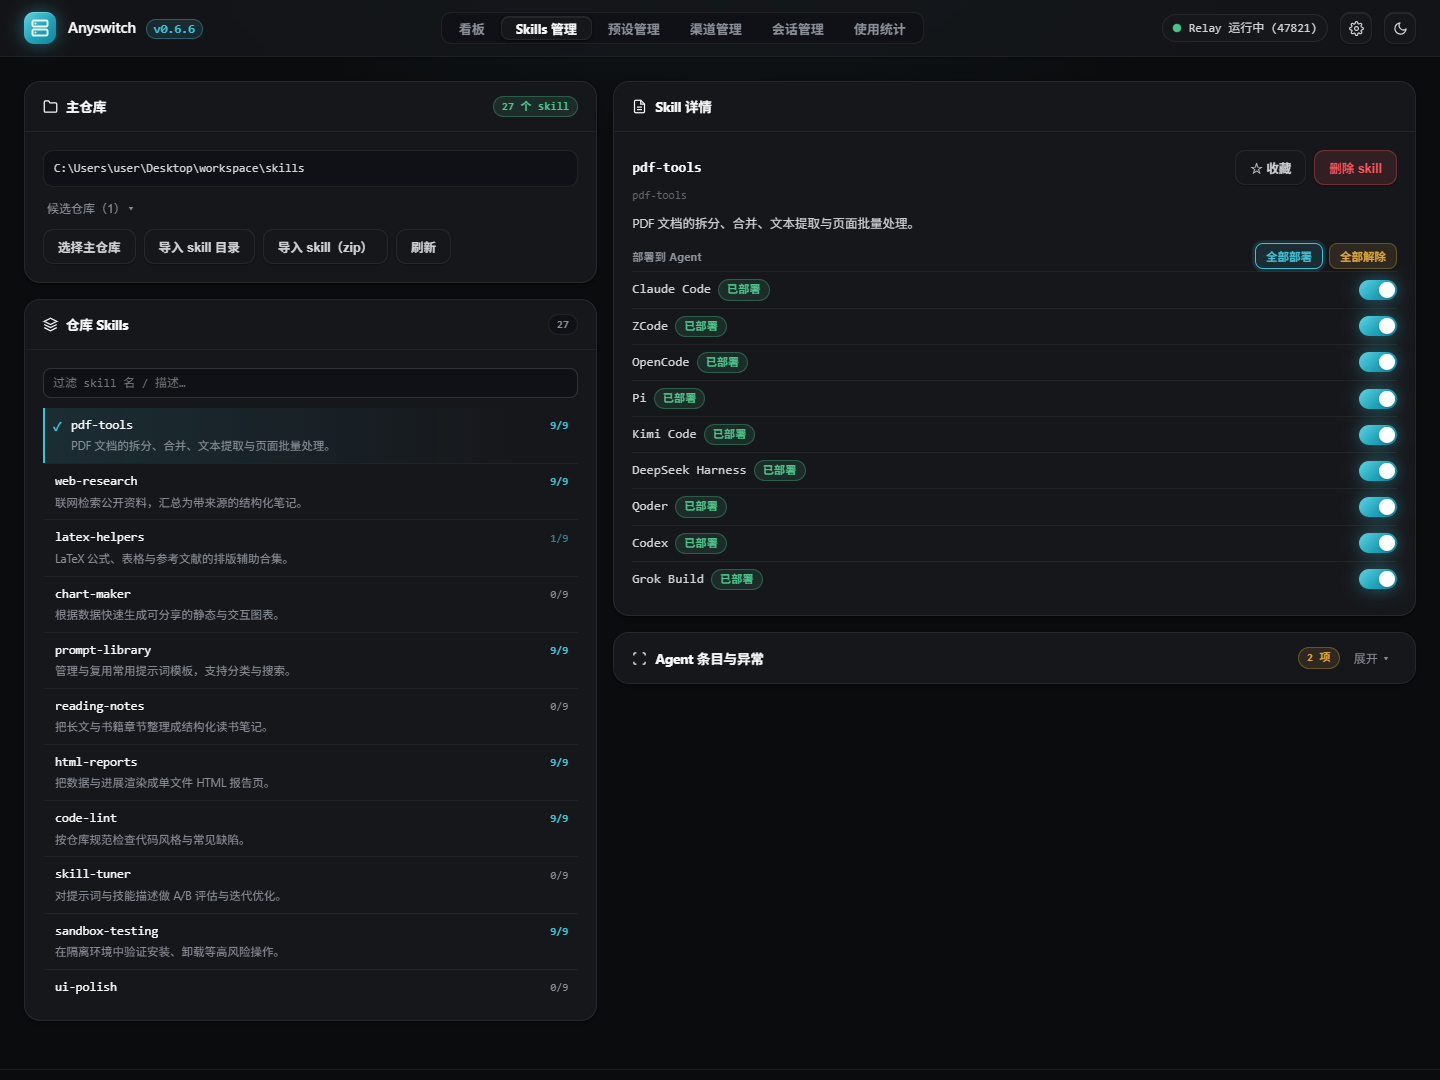
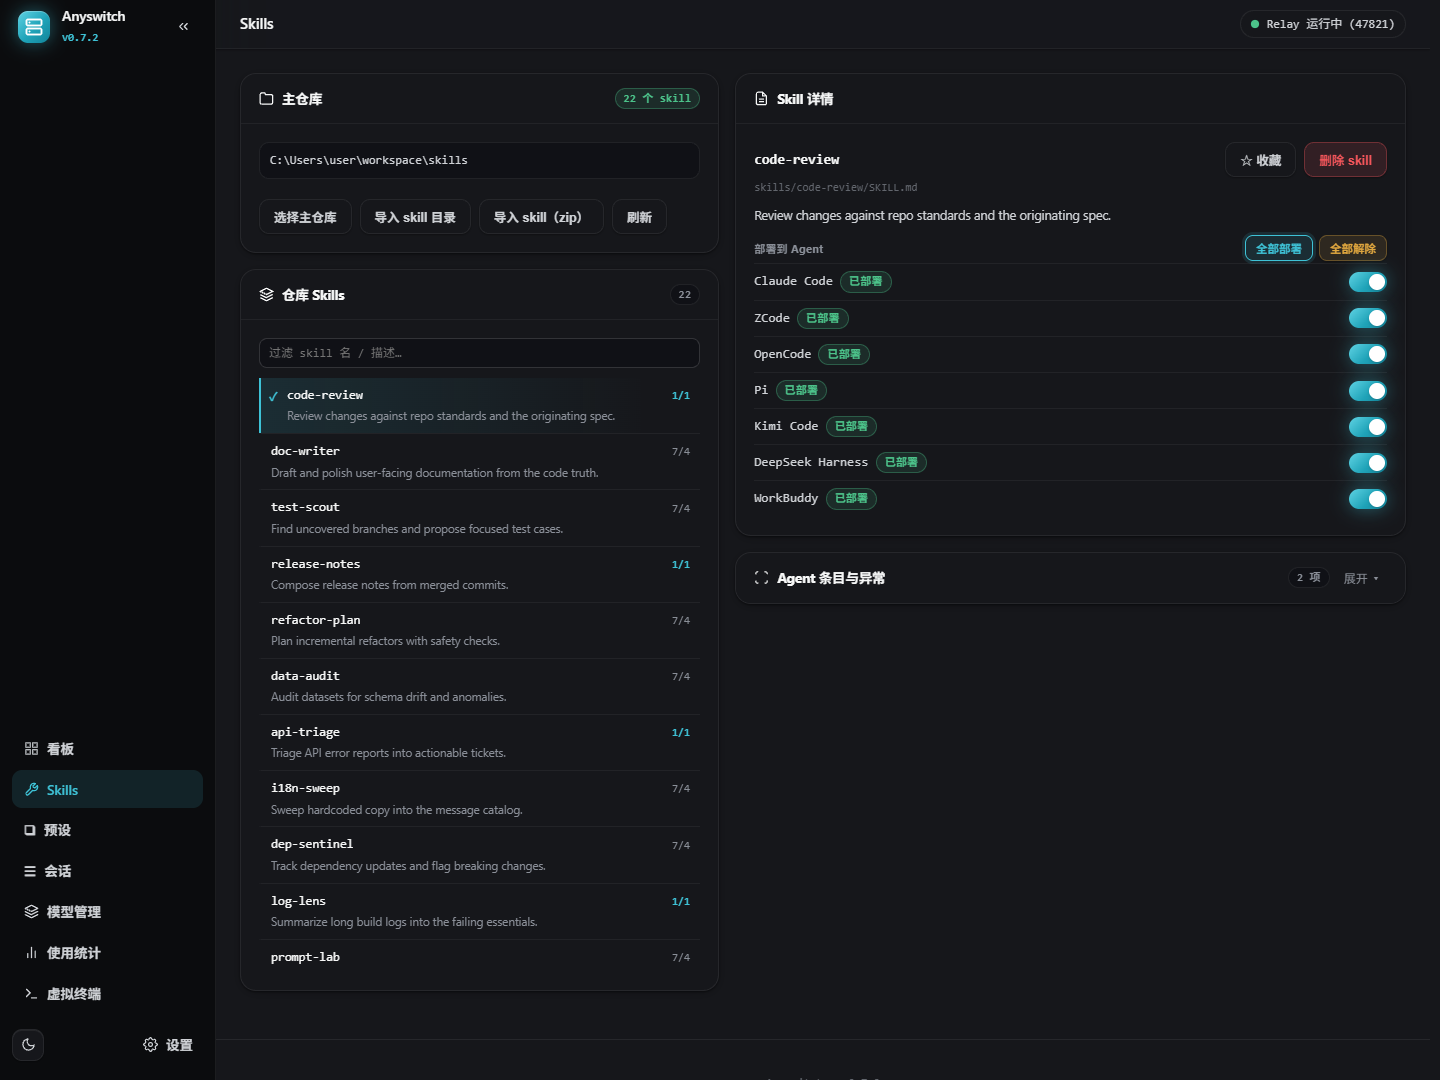
docs(readme): README 追上 0.7.2——截图按默认 v2 布局全量重拍，恢复/关页签/界面默认值旧口径修正，0.7.x 新特性织入（中英同步）
- 截图：原槽位 7 张按 v2 默认布局重拍（渠道管理更名 s2-store 模型管理），新增 s8-presets（预设技能节）与 s9-sessions（读数节），删除从未被引用的 s8-terminal-settings
- 旧口径修正：恢复开关＝死于服务重启的会话回页自动原地复活、正常退出如实标记；关页签＝页签只是入口，同对话还有活页签零确认只撤入口、最后一个入口在跑才确认；边界条反转为左侧导航新版即默认布局（旧版可在设置→通用→显示切回）
- 新特性织入：看板三档排布、ZCode 会话粒度实例行、预设「标题+正文」成段注入、SKILL.md 就地编辑保存、设置页创建桌面快捷方式、relay token 7 天代次轮换＋24h 闲置退役、更新检查代理回退、页脚品牌名＋版本号
- 规模数字重算：124 实现/165 测试/合计 289；约 58,900/116,800/31,600 行

diff --git a/README.en.md b/README.en.md
@@ -44,7 +44,7 @@ The panel lives at `http://127.0.0.1:47820/panel`, the relay at `127.0.0.1:47821
 
 <p align="center">
   <img src="docs/screenshots/s1-board.png" alt="Dashboard: service status, recent requests, per-agent instances with live output" width="48%">
-  <img src="docs/screenshots/s2-channels.png" alt="Channel management: channels, pools and the model list" width="48%">
+  <img src="docs/screenshots/s2-store.png" alt="Model management: channels, pools and the model list" width="48%">
   <img src="docs/screenshots/s3-stats.png" alt="Usage stats: today's overview, 90-day heatmap and token trends" width="48%">
   <img src="docs/screenshots/s4-skills.png" alt="Skills management: main repo and per-agent deployment" width="48%">
 </p>
@@ -62,7 +62,7 @@ Claude Code / Codex / other agents
    your OpenAI-compatible upstreams
 ```
 
-Screenshots live in [`docs/screenshots/`](docs/screenshots/) — open them after cloning to check the page shapes. They were taken from the panel of this exact code on one machine; channel names, usage numbers and the skills list are desensitized demo data.
+Screenshots live in [`docs/screenshots/`](docs/screenshots/) — open them after cloning to check the page shapes. They were taken from the panel of this exact code on one machine, on the default UI (the left-navigation layout); channel names, session titles, the skills and preset lists, and usage numbers are desensitized demo data.
 
 ---
 
@@ -70,7 +70,7 @@ Screenshots live in [`docs/screenshots/`](docs/screenshots/) — open them after
 
 Three prerequisites: Windows (credential sealing uses DPAPI, autostart uses Task Scheduler); Node.js (`>=22.15.0 <23 || >=23.8.0`, 24 LTS recommended — that is the API floor, not a claim that every version in range was tested); and a fresh install directory (never overwrite a running one with new source).
 
-Then the four lines above. `npm install` only installs the virtual terminal — 5 direct dependencies for PTY binding and rendering. Without it, the relay, panel, channel management, launchers and stats all work; only the terminal page stays closed. Start the panel manually with `node src/panel/panel-launcher.mjs`; `panel-app.vbs` finds the launcher relative to itself, so the install directory can be anywhere.
+Then the four lines above. `npm install` only installs the virtual terminal — 5 direct dependencies for PTY binding and rendering. Without it, the relay, panel, channel management, launchers and stats all work; only the terminal page stays closed. Start the panel manually with `node src/panel/panel-launcher.mjs`; `panel-app.vbs` finds the launcher relative to itself, so the install directory can be anywhere. Once installed, Settings → General also offers "Create desktop shortcut" — one click to put the panel entry on your desktop.
 
 Four steps to your first working request:
 
@@ -87,7 +87,7 @@ node --check src/panel/panel-host.mjs
 npm test
 ```
 
-`npm test` runs the repo's full suite (151 test files, all under `tests/`, separate from the implementation in `src/`); it needs one `npm install` because the virtual-terminal tests touch the terminal host.
+`npm test` runs the repo's full suite (165 test files, all under `tests/`, separate from the implementation in `src/`); it needs one `npm install` because the virtual-terminal tests touch the terminal host.
 
 ---
 
@@ -157,7 +157,7 @@ model name
 A node degrades after 2 consecutive failures and returns to the head of the chain after 5 minutes, driven by real requests. Deleting a channel or dissolving a pool prunes referencing chain entries in the same write — no dangling nodes. Every hop has a live lamp on the dashboard: which hop is serving, which is degraded, visible at a glance.
 
 <p align="center">
-  <img src="docs/screenshots/s5-route-chain.png" alt="Route chain editor: hop-by-hop failover chain and candidate tile wall" width="80%">
+  <img src="docs/screenshots/s5-route-chain.png" alt="A virtual model's route chain editor: hop-by-hop failover chain and candidate tile wall" width="80%">
 </p>
 
 ### Virtual models: one name, recognized by all ten agents
@@ -176,9 +176,13 @@ A channel carries its own last line of defense: `baseURL` plus multiple `fallbac
 
 Configuration and routing are the base; the readouts are what you use every day. Three places:
 
-- **Dashboard**: relay and terminal service status, live lamps for every chain hop, recent requests (including failures and 429s), per-agent instances. Multiple sessions of one client show as multiple instance rows, not merged into one blur.
+- **Dashboard**: relay and terminal service status, live lamps for every chain hop, recent requests (including failures and 429s), per-agent instances. Multiple sessions of one client show as multiple instance rows, not merged into one blur — ZCode instance rows go down to session granularity. The board has three layouts (All / Icon row / Running only) under Settings → Display.
 - **Usage stats**: today's overview (requests, tokens, cache hits, mean first-token latency, success rate), a 90-day heatmap, token trends, per-model usage and the request log.
 - **Sessions**: scans the ten clients' own session stores on demand, no separate index. Turn counting happens in the data layer — only what you actually said counts, never tool output posing as user input.
+
+<p align="center">
+  <img src="docs/screenshots/s9-sessions.png" alt="Sessions page: session lists and turn counting across the ten clients" width="80%">
+</p>
 
 Instance attribution is not guesswork: clients started via a launcher (or the virtual terminal) are attributed by the owning process of the connection; desktop GUI forms are recognized separately and never mistaken for another CLI. Attribution has a cold-cache window — right after relay start, before process scanning warms up, a launcher-shaped instance row can briefly appear twice; it collapses after 10 idle minutes.
 
@@ -215,18 +219,22 @@ The old approach poured the raw byte stream back into the terminal — refreshin
 - **Newlines**: `Ctrl+Enter` / `Shift+Enter`. Regular endpoints send LF; Codex alone sends `ESC CR` — it treats LF as submit, so it needs its own keybinding.
 - **Font size**: 10–24, default 13; `− / +`, `Ctrl+±`, `Ctrl+wheel` — three entry points, terminal page only.
 - **Tab bar**: collapses to give the terminal screen height; the transition is instant, container and canvas reflow in the same frame, no blank bars. Tabs can't be renamed; the server assigns labels from agent display names.
-- **Closing a tab**: closing a busy tab asks first; closing kills the whole process tree — node-pty's plain console close leaves children alive, so this is a tree kill.
+- **Closing a tab**: a tab is just an entry into a session. While other tabs onto the same conversation remain, closing one merely withdraws that entry — no confirmation, processes untouched; only when it is the last entry onto a still-running process does it ask first, and closing kills the whole process tree (node-pty's plain console close leaves children alive, so this is a tree kill).
 - **Theme**: terminal background, foreground, cursor and selection follow the panel's three skins and light/dark switch, re-rendering instantly.
 
-The terminal's backend is a separate process (port 47823) owned by the relay: it is relaunched automatically on crash — retry after 1s, at most 5 times per 10 minutes, then parked in "error" awaiting a manual start. The page header has two switches: **Continue from where you left off** (default on — restores page and history on next start, processes are not resurrected, restored sessions are honestly marked as exited) and **Bottom auto-alignment** (default off — when on, collapses the bottom blank band while browsing history upward).
+The terminal's backend is a separate process (port 47823) owned by the relay: it is relaunched automatically on crash — retry after 1s, at most 5 times per 10 minutes, then parked in "error" awaiting a manual start. The page header has two switches: **Continue from where you left off** (default on — restores page and history on next start; sessions killed by a service restart resurrect in place when you return to the terminal page, ones you exited normally stay honestly marked as exited and are not relaunched) and **Bottom auto-alignment** (default off — when on, collapses the bottom blank band while browsing history upward).
 
 ---
 
 ## Presets and skills: write once, effective in ten homes
 
-Prompt presets are instructions for *your* way of working, not a template library. Enabled presets are injected into the instruction files of all ten endpoints (`~/.claude/CLAUDE.md`, `~/.zcode/AGENTS.md`, `~/.codex/AGENTS.md`, …), written and removed in managed, clearly marked pairs; the list supports Ctrl multi-select and batch delete, and an empty preset list cleans up after itself with no leftover blocks.
+Prompt presets are instructions for *your* way of working, not a template library. Enabled presets are injected as a titled section (title + body) into the instruction files of all ten endpoints (`~/.claude/CLAUDE.md`, `~/.zcode/AGENTS.md`, `~/.codex/AGENTS.md`, …) — the agent sees both the rule's subject and its content. Injection is written and removed in managed, clearly marked pairs; the list supports Ctrl multi-select and batch delete, and an empty preset list cleans up after itself with no leftover blocks.
 
-Skills use a main-repo model: one local directory acts as the source, deploying into each agent's skills directory. Deployed skills appear in each endpoint's own listing; the main repo and deployment surface are managed on the same Skills page — and only installed agents are served: anything not installed stays off the dashboard, auto-route tiles and session filters.
+<p align="center">
+  <img src="docs/screenshots/s8-presets.png" alt="Preset management: titles, enable switches and injection share" width="80%">
+</p>
+
+Skills use a main-repo model: one local directory acts as the source, deploying into each agent's skills directory. Deployed skills appear in each endpoint's own listing; the main repo and deployment surface are managed on the same Skills page, where a SKILL.md body can be read and edited in place — and only installed agents are served: anything not installed stays off the dashboard, auto-route tiles and session filters.
 
 ---
 
@@ -256,9 +264,9 @@ Skills use a main-repo model: one local directory acts as the source, deploying 
   The second command walks `src/` recursively (after the refactor no implementation sits at the repo root, so scanning the root finds nothing) and should print only `src/terminal/terminal-host.mjs: import * as pty from "node-pty";`.
 
 - **The write path is concurrency-safe.** Panel writes to the store go through content-hash CAS with a file lock; the routing catalog carries a generation digest so a config changed mid-request is never served stale.
-- **Write endpoints trust only the local panel.** `POST /panel/api/*` passes Origin/Referer validation; the relay authenticates with a local token from the data root, as does the terminal host.
+- **Write endpoints trust only the local panel.** `POST /panel/api/*` passes Origin/Referer validation; the relay authenticates with a local token from the data root, as does the terminal host. The token rotates automatically every 7 days, and an idle previous generation retires after 24 hours — no handling required.
 
-Scale is not the selling point, but it is verifiable: 118 implementation `.mjs` files under `src/` and 151 test `.mjs` files under `tests/`, 269 in total; roughly 55,600 lines of implementation code and 106,100 lines of test code; the panel frontend trio `panel.js` / `panel.html` / `panel.css` together about 29,800 lines.
+Scale is not the selling point, but it is verifiable: 124 implementation `.mjs` files under `src/` and 165 test `.mjs` files under `tests/`, 289 in total; roughly 58,900 lines of implementation code and 116,800 lines of test code; the panel frontend trio `panel.js` / `panel.html` / `panel.css` together about 31,600 lines.
 
 ---
 
@@ -285,9 +293,9 @@ The comparison is based on read-only research of CC Switch's public repo and doc
 - **The 0.7 line is now stable.** The stable line moved on from `v0.6.6` and now sits at `v0.7.2`: installations running a stable identity are offered `v0.7.2`, and installations that followed `v0.7.0-preview` already returned to the stable track at `v0.7.0`.
 - **The virtual terminal is still preview.** It needs its own `npm install` once; the default-off "bottom auto-alignment" and restore policy are still being polished on the preview line.
 - **Restarting the relay interrupts in-flight requests and ends every terminal process alive at that moment.** The panel's **Restart** swaps the relay first, then the panel host; run it between sessions. Restarting only the panel host does not kill terminals — the terminal host is owned by the relay.
-- **Refresh recovery has a scope.** It restores "still on the terminal page + which tab + whatever history the mirror can still replay"; it does not restore scroll position, does not replay everything since the session began, and does not resurrect sessions whose processes have exited.
+- **Refresh recovery has a scope.** It restores "still on the terminal page + which tab + whatever history the mirror can still replay"; it does not restore scroll position and does not replay everything since the session began. Sessions whose processes have exited split two ways: ones killed by a service restart resurrect in place when you return to the terminal page; ones you exited normally stay exited, keeping only their history.
 - **Terminal tabs can't be renamed, and a blank terminal's shell is fixed to PowerShell.** GUI desktop forms (Claude Desktop, Codex desktop, …) are not terminal candidates.
-- **The new UI is an opt-in toggle, not the default.** The default is still the classic layout; the screenshots show the default.
+- **The left-navigation UI is the default layout.** Browsers that never touched the UI toggle get the new UI; anyone who explicitly chose the classic layout keeps it. The switch lives under Settings → General → Display and takes effect instantly. The screenshots here show the default layout.
 - **One-step self-update and the "bleeding edge" channel haven't completed a real update round yet.** An update replaces the running panel — that step can only be walked by the first person who clicks it.
 - **Several attribution fixes live in the resident relay and need a relay restart to take effect**; the restart takes open terminal sessions with it — the page keeps the history and honestly marks the sessions as exited.
 - **Instance attribution has a cold-cache window.** Right after relay start, launcher-shaped instance rows can briefly double before process scanning warms up; they collapse after 10 idle minutes.
@@ -334,7 +342,7 @@ git log --no-merges --oneline v0.7.1..v0.7.2
 
 User data lives one level above `app` in `%LOCALAPPDATA%\Anyswitch\`: channels, credentials, settings, presets and usage records never follow the source directory.
 
-The preferred upgrade entry point is in the panel: **Settings → About → Check for updates**. Confirm once on "Update now" and download plus swap complete automatically; background pre-download ("auto-check and download updates") is off by default. To walk the same path manually, first schedule a quiet moment for open sessions, then check the install directory's working tree:
+The preferred upgrade entry point is in the panel: **Settings → About → Check for updates**. Confirm once on "Update now" and download plus swap complete automatically; background pre-download ("auto-check and download updates") is off by default. Checks and downloads go direct first; on a direct-connection transport failure they retry once through your configured proxy (environment variables or git `http.proxy`). To walk the same path manually, first schedule a quiet moment for open sessions, then check the install directory's working tree:
 
 ```bat
 cd /d "%LOCALAPPDATA%\Anyswitch\app"
@@ -355,7 +363,7 @@ Do not copy new source over an old install, and do not upgrade with `git reset -
 
 ## Feedback and contributions
 
-- **Bugs**: include the Windows version, Node version, agent form, reproduction steps and the actual error; never attach API keys, credential files or full session contents.
+- **Bugs**: include the Windows version, Node version, the Anyswitch version (shown in the panel footer), agent form, reproduction steps and the actual error; never attach API keys, credential files or full session contents.
 - **Feature proposals**: first say where your workflow gets stuck, then the outcome you want; leave implementation approaches to the discussion.
 - **Code changes**: follow [`CONTRIBUTING.md`](CONTRIBUTING.md) — Node.js ESM, built-in `node:test`, specs and code updated in the same commit.
 
